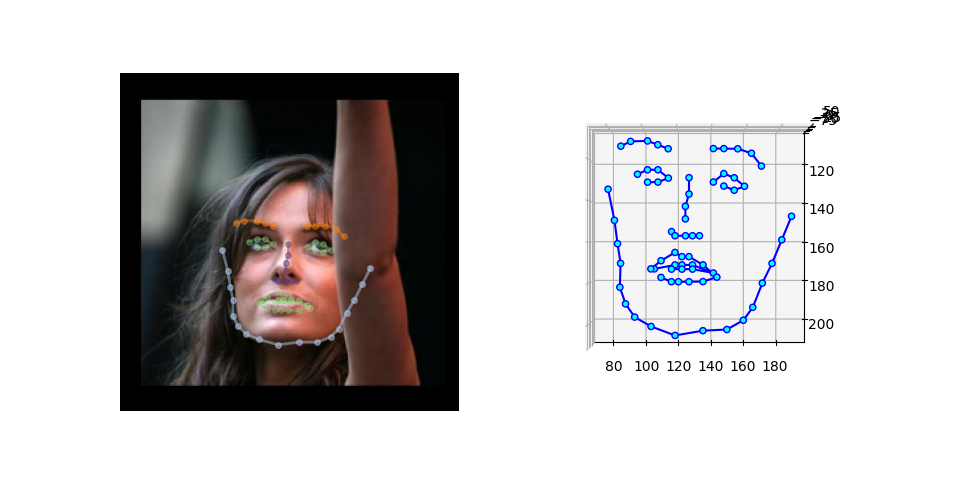
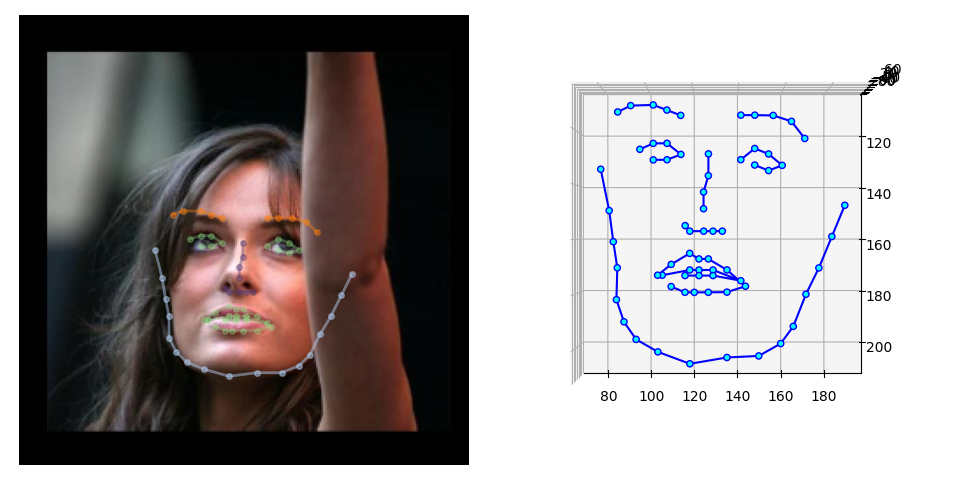
FIX: face_alignment reuse the same fig&axs

diff --git a/face_recognition/face_alignment/face_alignment.py b/face_recognition/face_alignment/face_alignment.py
@@ -90,6 +90,14 @@ PRED_TYPES = {
 # ======================
 # Utils
 # ======================
+def create_figure():
+    fig = plt.figure(figsize=plt.figaspect(0.5), tight_layout=True)
+    ax1 = fig.add_subplot(1, 2, 1)
+    ax2 = fig.add_subplot(1, 2, 2, projection='3d')
+    axs = [ax1, ax2]
+    return fig, axs
+
+
 def plot_images(title, images, tile_shape):
     fig = plt.figure()
     plt.title(title)
@@ -106,28 +114,30 @@ def plot_images(title, images, tile_shape):
     fig.savefig(save_name)
 
 
-def visualize_results(image, pts_img, active_3d=False):
-    fig = plt.figure(figsize=plt.figaspect(0.5))
+def visualize_results(axs, image, pts_img, active_3d=False):
+    """Visualize results & clear previous output
+    """
+    # 2D-plot
+    ax = axs[0]
+    ax.clear()
+    ax.imshow(image)
+    for pred_type in PRED_TYPES.values():
+        ax.plot(
+            pts_img[pred_type.slice, 0],
+            pts_img[pred_type.slice, 1],
+            color=pred_type.color,
+            marker='o',
+            markersize=4,
+            linestyle='-',
+            lw=2,
+        )
+
+    ax.axis('off')
 
     if active_3d:
-        # 2D-plot
-        ax = fig.add_subplot(1, 2, 1)
-        ax.imshow(image)
-        for pred_type in PRED_TYPES.values():
-            ax.plot(
-                pts_img[pred_type.slice, 0],
-                pts_img[pred_type.slice, 1],
-                color=pred_type.color,
-                marker='o',
-                markersize=4,
-                linestyle='-',
-                lw=2,
-            )
-
-        ax.axis('off')
-
         # 3D-plot
-        ax = fig.add_subplot(1, 2, 2, projection='3d')
+        ax = axs[1]
+        ax.clear()
         ax.scatter(
             pts_img[:, 0],
             pts_img[:, 1],
@@ -148,22 +158,7 @@ def visualize_results(image, pts_img, active_3d=False):
         ax.view_init(elev=90, azim=90.)
         ax.set_xlim(ax.get_xlim()[::-1])
 
-    else:
-        # 2D
-        plt.imshow(image)
-        for pred_type in PRED_TYPES.values():
-            plt.plot(
-                pts_img[pred_type.slice, 0],
-                pts_img[pred_type.slice, 1],
-                color=pred_type.color,
-                marker='o',
-                markersize=4,
-                linestyle='-',
-                lw=2,
-            )
-        plt.axis('off')
-
-    return fig
+    return axs
 
 
 def transform(point, center, scale, resolution, invert=False):
@@ -371,7 +366,8 @@ def recognize_from_image():
         depth_pred = depth_pred.reshape(68, 1)
         pts_img = np.concatenate((pts_img, depth_pred * 2), 1)
 
-    fig = visualize_results(input_img, pts_img, active_3d=args.active_3d)
+    fig, axs = create_figure()
+    axs = visualize_results(axs, input_img, pts_img, active_3d=args.active_3d)
     fig.savefig(args.savepath)
 
     # Confidence Map
@@ -406,6 +402,8 @@ def recognize_from_video():
         if check_file_existance(args.video):
             capture = cv2.VideoCapture(args.video)
 
+    fig, axs = create_figure()
+
     while(True):
         ret, frame = capture.read()
         if cv2.waitKey(1) & 0xFF == ord('q'):
@@ -439,7 +437,11 @@ def recognize_from_video():
             pts_img = np.concatenate((pts_img, depth_pred * 2), 1)
 
         resized_img = cv2.resize(input_image, (IMAGE_WIDTH, IMAGE_HEIGHT))
-        fig = visualize_results(resized_img, pts_img, active_3d=args.active_3d)
+
+        # visualize results (clear axs at first)
+        axs = visualize_results(
+            axs, resized_img, pts_img, active_3d=args.active_3d
+        )
         plt.pause(0.01)
 
     capture.release()
